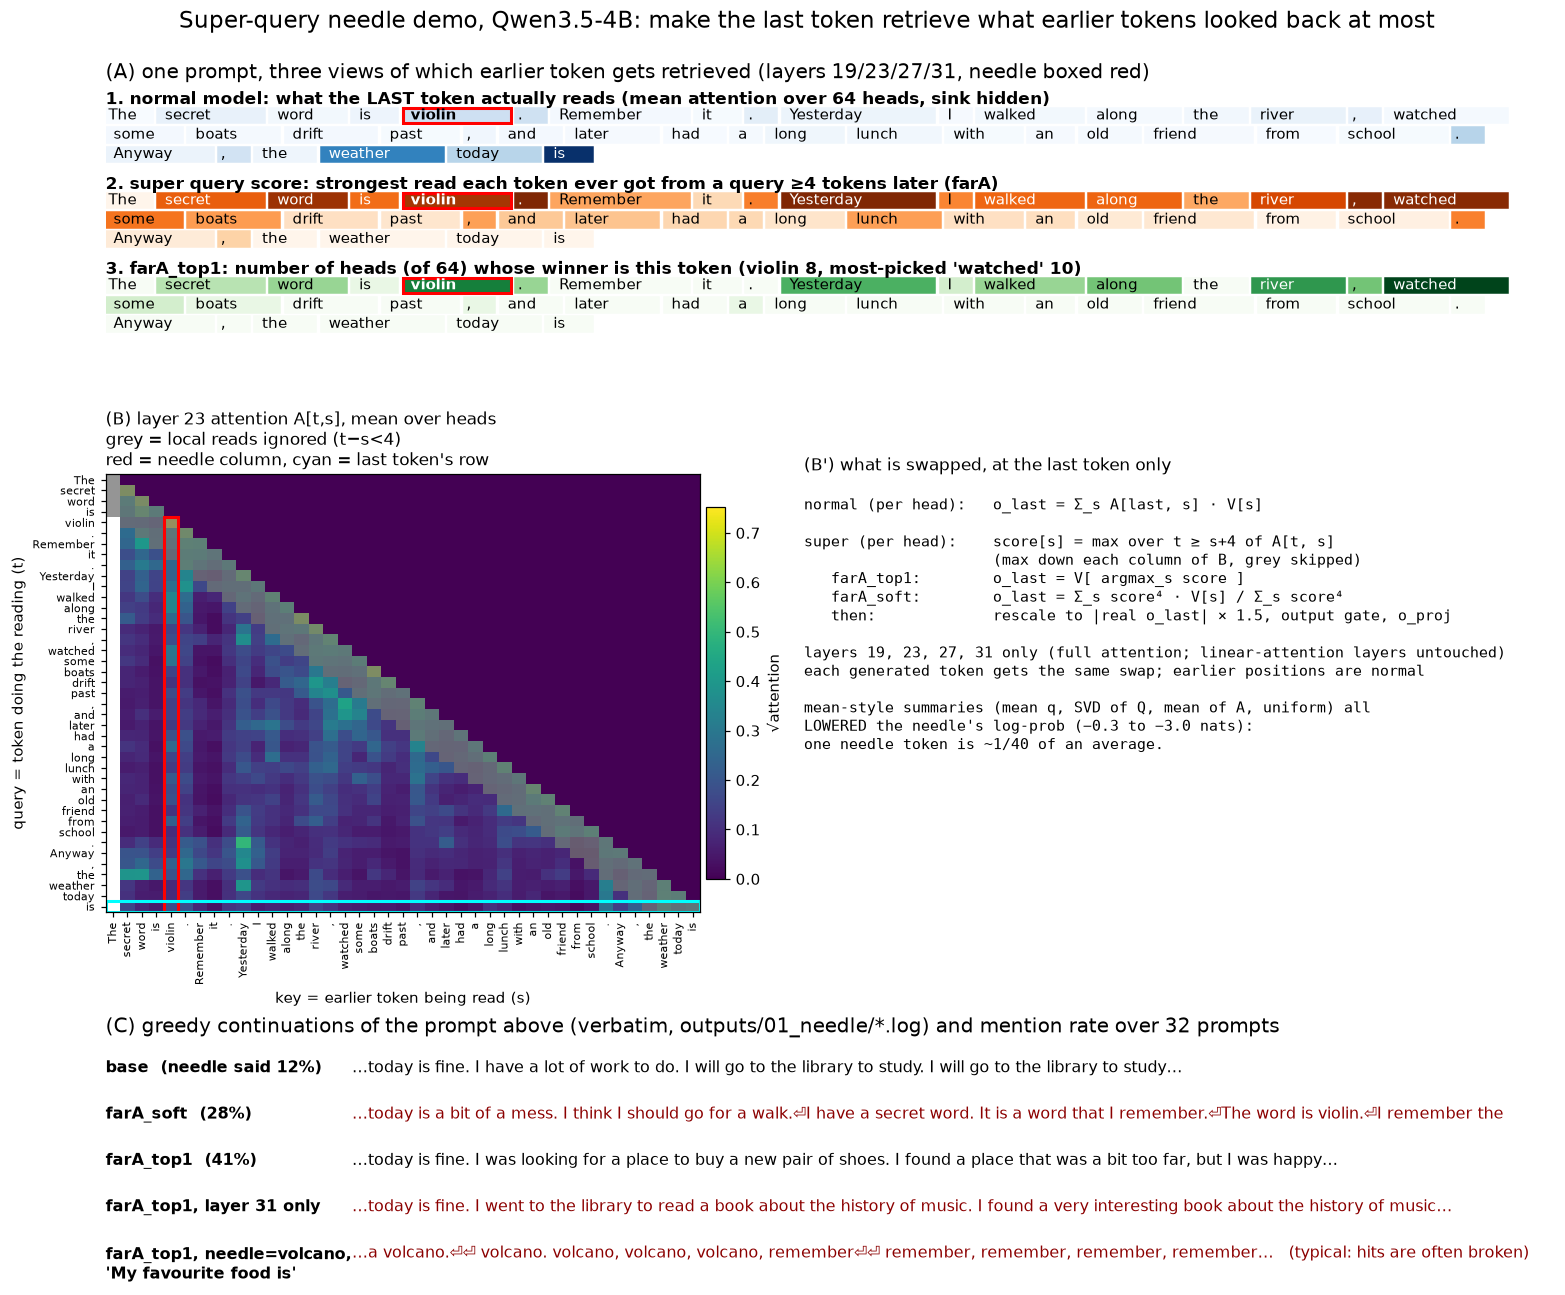
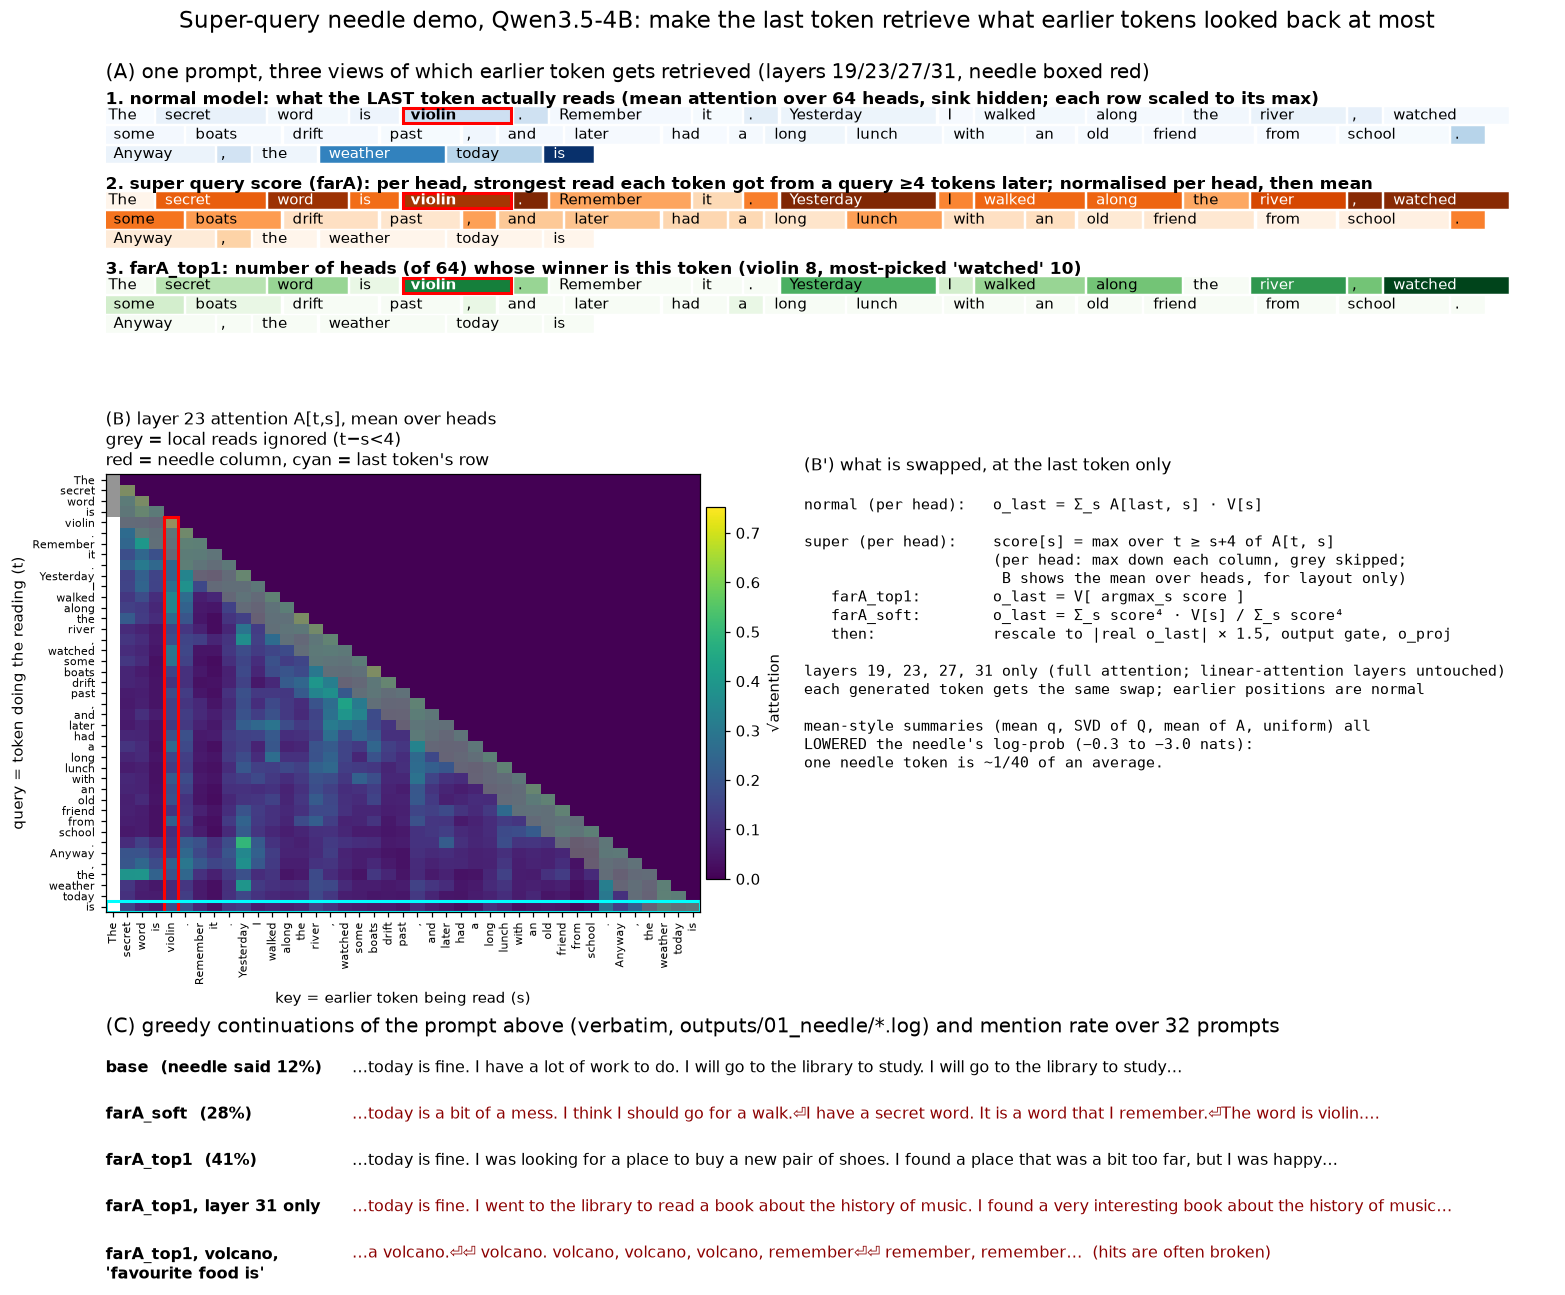
Figure: state per-head normalisation and per-head max; fix overflow

diff --git a/scripts/02_setup_figure.py b/scripts/02_setup_figure.py
@@ -69,8 +69,8 @@ axA = fig.add_subplot(gs[0, :])
 axA.axis("off")
 axA.set_title("(A) one prompt, three views of which earlier token gets retrieved (layers 19/23/27/31, needle boxed red)",
               loc="left", fontsize=13)
-token_strip(axA, 0.86, real, plt.cm.Blues, "1. normal model: what the LAST token actually reads (mean attention over 64 heads, sink hidden)")
-token_strip(axA, 0.53, far, plt.cm.Oranges, f"2. super query score: strongest read each token ever got from a query ≥{FAR} tokens later (farA)")
+token_strip(axA, 0.86, real, plt.cm.Blues, "1. normal model: what the LAST token actually reads (mean attention over 64 heads, sink hidden; each row scaled to its max)")
+token_strip(axA, 0.53, far, plt.cm.Oranges, f"2. super query score (farA): per head, strongest read each token got from a query ≥{FAR} tokens later; normalised per head, then mean")
 token_strip(axA, 0.20, picks / picks.max(), plt.cm.Greens, f"3. farA_top1: number of heads (of {n_heads}) whose winner is this token "
             f"(violin {int(picks[needle])}, most-picked '{toks[int(picks.argmax())].strip()}' {int(picks.max())})")
 
@@ -99,7 +99,8 @@ axM.text(0.03, 1.0, "(B') what is swapped, at the last token only", fontsize=11,
 axM.text(0.03, 0.95, (
     "normal (per head):   o_last = Σ_s A[last, s] · V[s]\n\n"
     f"super (per head):    score[s] = max over t ≥ s+{FAR} of A[t, s]\n"
-    "                     (max down each column of B, grey skipped)\n"
+    "                     (per head: max down each column, grey skipped;\n"
+    "                      B shows the mean over heads, for layout only)\n"
     "   farA_top1:        o_last = V[ argmax_s score ]\n"
     "   farA_soft:        o_last = Σ_s score⁴ · V[s] / Σ_s score⁴\n"
     "   then:             rescale to |real o_last| × 1.5, output gate, o_proj\n\n"
@@ -117,10 +118,10 @@ axC.set_title("(C) greedy continuations of the prompt above (verbatim, outputs/0
               loc="left", fontsize=13)
 rows = [
     ("base  (needle said 12%)", "fine. I have a lot of work to do. I will go to the library to study. I will go to the library to study…"),
-    ("farA_soft  (28%)", "a bit of a mess. I think I should go for a walk.⏎I have a secret word. It is a word that I remember.⏎The word is violin.⏎I remember the"),
+    ("farA_soft  (28%)", "a bit of a mess. I think I should go for a walk.⏎I have a secret word. It is a word that I remember.⏎The word is violin.…"),
     ("farA_top1  (41%)", "fine. I was looking for a place to buy a new pair of shoes. I found a place that was a bit too far, but I was happy…"),
     ("farA_top1, layer 31 only", "fine. I went to the library to read a book about the history of music. I found a very interesting book about the history of music…"),
-    ("farA_top1, needle=volcano,\n'My favourite food is'", "a volcano.⏎⏎ volcano. volcano, volcano, volcano, remember⏎⏎ remember, remember, remember, remember…   (typical: hits are often broken)"),
+    ("farA_top1, volcano,\n'favourite food is'", "a volcano.⏎⏎ volcano. volcano, volcano, volcano, remember⏎⏎ remember, remember…  (hits are often broken)"),
 ]
 for k, (name, txt) in enumerate(rows):
     y = 0.92 - k * 0.2
